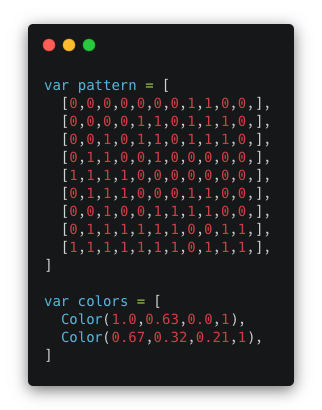
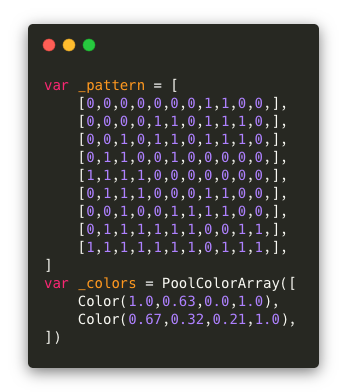
Bumped to 1.2.0

diff --git a/CHANGELOG.md b/CHANGELOG.md
@@ -11,6 +11,8 @@
 - Default array names:
   - ~~`pattern`~~ for `_pattern` and ~~`colors`~~ for `_colors`.
 
+- The variable `_colors` is now a `PoolColorArray`.
+
 - Internal function:
   - ~~`print_or_write`~~ for ~~`write_to_file`~~.
 
